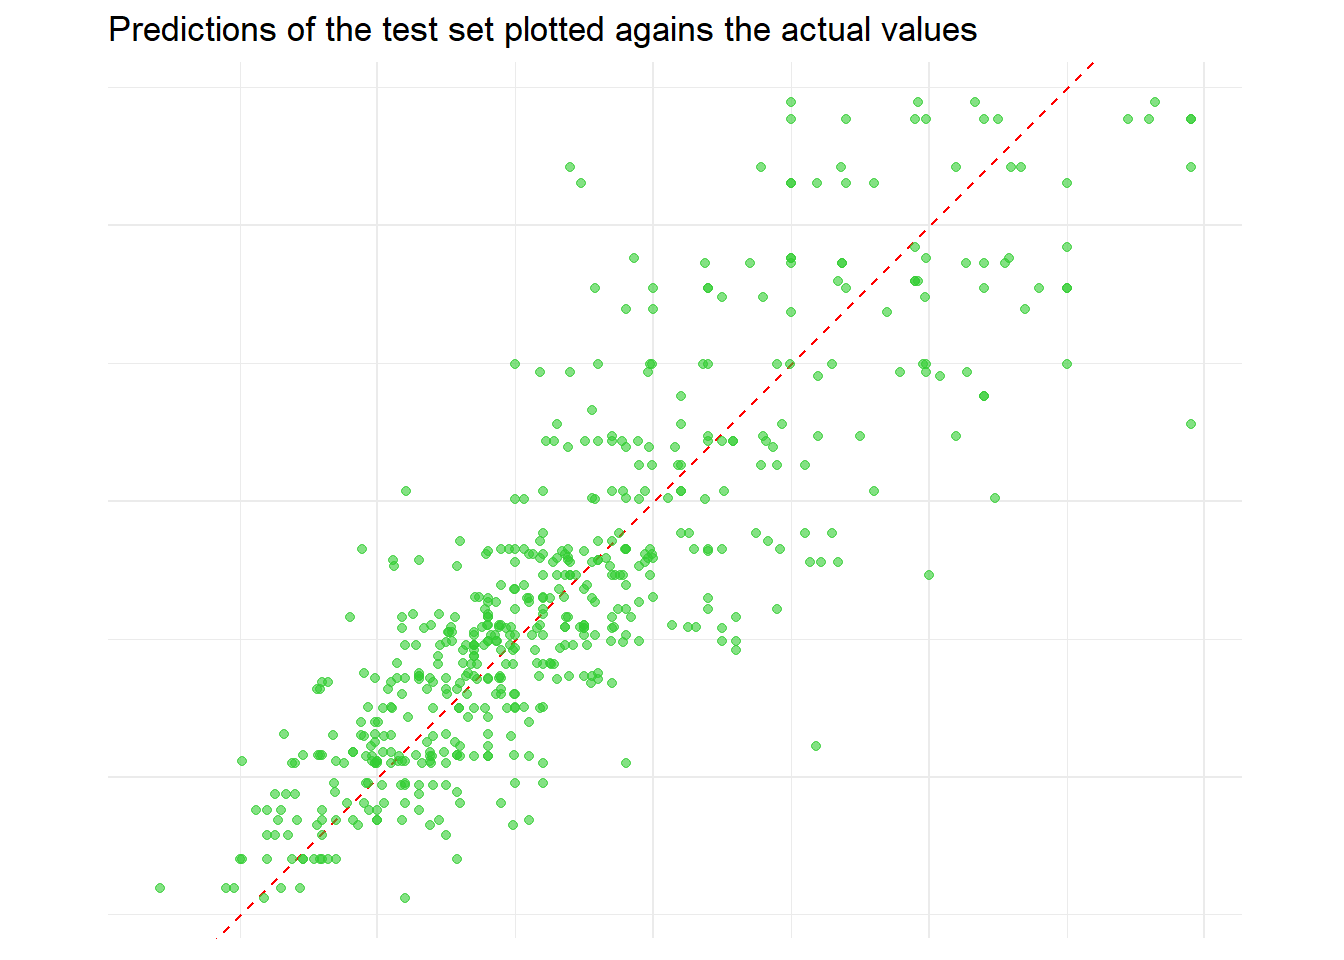
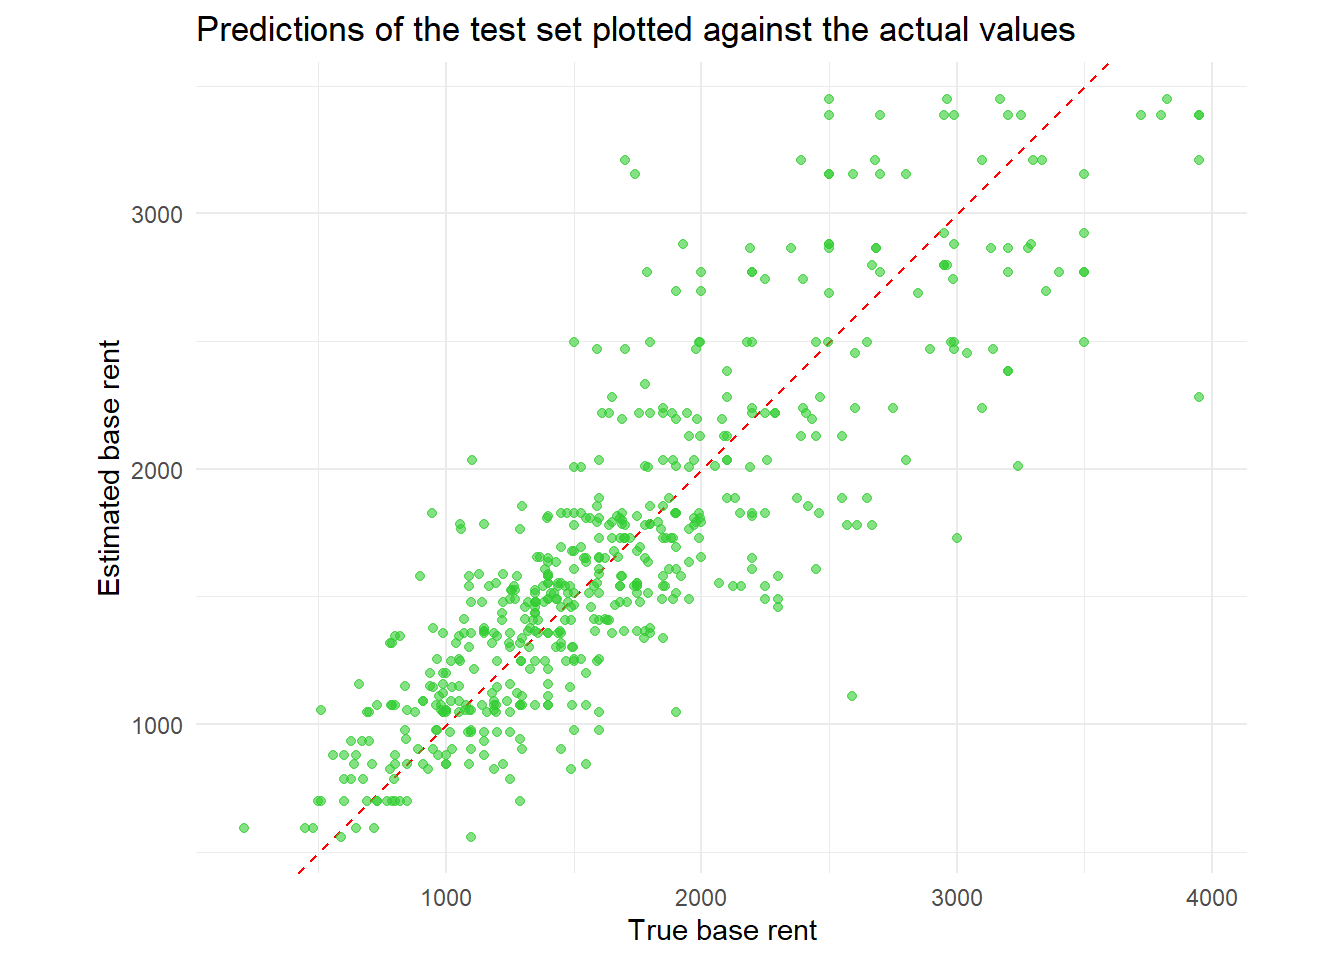
Update Solution Ex04

diff --git a/ML/Exercise04/Exercise_04_Solution.html b/ML/Exercise04/Exercise_04_Solution.html
@@ -718,6 +718,7 @@ Solution
 </div>
 <p>In order to do so, you have to proceed as follows:</p>
 <ol type="1">
+<li>Derive the order statistics of <span class="math inline">\(\{x_1,...,x_n\}\)</span></li>
 <li>Derive the set <span class="math inline">\(S := \left\{\frac{1}{2}(x_{(r)}+x_{(r+1)}):r=1,...,n-1\right\}\)</span> of all potential splitting points.</li>
 <li>For each potential splitting point, derive the regions <span class="math inline">\(R_1\)</span> and <span class="math inline">\(R_2\)</span> and calculate the estimate <span class="math inline">\(\hat y_1\)</span> and <span class="math inline">\(\hat y_2\)</span> for the respective regions.</li>
 <li>Calculate the loss <span class="math inline">\(\mathcal{L}(y,\hat y) := \sum_{i:x_i\in R_1} (y_i-\hat y)^2 + \sum_{i:x_i\in R_2}(y_i-\hat y)^2\)</span>.</li>
@@ -745,8 +746,10 @@ Solution
 <span id="cb3-9"><a href="#cb3-9" aria-hidden="true" tabindex="-1"></a>}</span></code><button title="Copy to Clipboard" class="code-copy-button"><i class="bi"></i></button></pre></div>
 </div>
 <p>Since we are interested in finding the optimal split with respect to <span class="math inline">\(x_2\)</span>, consider the sets of all possible splits <span class="math display">\[
-S := \left\{\frac{1}{2}(x_{(r)}+x_{(r+1)}):r=1,...,n-1\right\} = \{0.75,1.5,4,5\}
-\]</span> For <span class="math inline">\(r=1\)</span> we have <span class="math inline">\(s = 0.75\)</span> and <span class="math display">\[
+S := \left\{\frac{1}{2}(x_{(r)}+x_{(r+1)}):r=1,...,n-1\right\} = \{0.75,1.5,3.25,5\}.
+\]</span></p>
+<p>Here, <span class="math inline">\(\{x_{(r)},\, r = 1,...,n\} = \{0.5,1,2,4.5,5.5\}\)</span> denotes the order statistic of <span class="math inline">\(x\)</span>.</p>
+<p>For <span class="math inline">\(r=1\)</span> we have <span class="math inline">\(s = 0.75\)</span> and <span class="math display">\[
 \begin{align*}
 R_1(2,0.75) &amp;= \{x: x \leq 0.75\} = \{0.5\},\\
 R_2(2,0.75) &amp;= \{x: x &gt; 0.75\} = \{1.0,2.5,5.5,4.5\}.
@@ -794,7 +797,7 @@ R_2(2,1.5) &amp;= \{x: x &gt; 1.5\} = \{2.5,5.5,4.5\}.
 <pre><code>[1] 18.5</code></pre>
 </div>
 </div>
-<p>For <span class="math inline">\(r=3\)</span> we have <span class="math inline">\(s_2 = 4\)</span> and <span class="math display">\[
+<p>For <span class="math inline">\(r=3\)</span> we have <span class="math inline">\(s_2 = 3.25\)</span> and <span class="math display">\[
 \begin{align*}
 R_1(2,4) &amp;= \{x: x \leq 4\} = \{0.5,1.0, 2.5 \},\\
 R_2(2,4) &amp;= \{x: x &gt; 4\} = \{5.5,4.5\}.
@@ -842,7 +845,7 @@ R_2(2,5) &amp;= \{x: x &gt; 5\} = \{5.5\}.
 <pre><code>[1] 18.75</code></pre>
 </div>
 </div>
-<p>Since <span class="math inline">\(\mathcal{L}(y,\hat y)\)</span> is the lowest for <span class="math inline">\(r=3\)</span>, i.e., <span class="math inline">\(\mathcal{L}(y,\hat y) = 5.167\)</span>, <span class="math inline">\(s = 4\)</span> is the optimal splitting point with respect to <span class="math inline">\(x\)</span>.</p>
+<p>Since <span class="math inline">\(\mathcal{L}(y,\hat y)\)</span> is the lowest for <span class="math inline">\(r=3\)</span>, i.e., <span class="math inline">\(\mathcal{L}(y,\hat y) = 5.167\)</span>, <span class="math inline">\(s = 3.25\)</span> is the optimal splitting point with respect to <span class="math inline">\(x\)</span>.</p>
 </div>
 </div>
 </section>
@@ -854,7 +857,7 @@ R_2(2,5) &amp;= \{x: x &gt; 5\} = \{5.5\}.
 <span id="cb12-2"><a href="#cb12-2" aria-hidden="true" tabindex="-1"></a></span>
 <span id="cb12-3"><a href="#cb12-3" aria-hidden="true" tabindex="-1"></a>data <span class="sc">|&gt;</span> <span class="fu">ggplot</span>(<span class="fu">aes</span>(x,y))<span class="sc">+</span></span>
 <span id="cb12-4"><a href="#cb12-4" aria-hidden="true" tabindex="-1"></a>  <span class="fu">geom_point</span>(<span class="at">size =</span> <span class="dv">3</span>, <span class="at">alpha =</span> <span class="fl">0.7</span>) <span class="sc">+</span></span>
-<span id="cb12-5"><a href="#cb12-5" aria-hidden="true" tabindex="-1"></a>  <span class="fu">geom_vline</span>(<span class="at">xintercept =</span> <span class="dv">4</span>, <span class="at">linetype =</span> <span class="st">"dashed"</span>, <span class="at">color =</span> <span class="st">"red"</span>) <span class="sc">+</span></span>
+<span id="cb12-5"><a href="#cb12-5" aria-hidden="true" tabindex="-1"></a>  <span class="fu">geom_vline</span>(<span class="at">xintercept =</span> <span class="fl">3.25</span>, <span class="at">linetype =</span> <span class="st">"dashed"</span>, <span class="at">color =</span> <span class="st">"red"</span>) <span class="sc">+</span></span>
 <span id="cb12-6"><a href="#cb12-6" aria-hidden="true" tabindex="-1"></a>  <span class="fu">theme_minimal</span>()<span class="sc">+</span></span>
 <span id="cb12-7"><a href="#cb12-7" aria-hidden="true" tabindex="-1"></a>  <span class="fu">theme</span>(</span>
 <span id="cb12-8"><a href="#cb12-8" aria-hidden="true" tabindex="-1"></a>    <span class="at">plot.title =</span> <span class="fu">element_markdown</span>()</span>
@@ -1158,7 +1161,7 @@ Solution
 <p>Points that are closely scattered around this line have been well predicted, whereas points further away from this line indicate that the model performed badly.</p>
 <p>The goal of this exercise is for you to rebuild the plot that is depicted below.</p>
 <div class="cell">
-<div class="sourceCode cell-code" id="cb31"><pre class="sourceCode r code-with-copy"><code class="sourceCode r"><span id="cb31-1"><a href="#cb31-1" aria-hidden="true" tabindex="-1"></a>title_text <span class="ot">&lt;-</span> <span class="st">"Predictions of the test set plotted agains the actual values"</span></span>
+<div class="sourceCode cell-code" id="cb31"><pre class="sourceCode r code-with-copy"><code class="sourceCode r"><span id="cb31-1"><a href="#cb31-1" aria-hidden="true" tabindex="-1"></a>title_text <span class="ot">&lt;-</span> <span class="st">"Predictions of the test set plotted against the actual values"</span></span>
 <span id="cb31-2"><a href="#cb31-2" aria-hidden="true" tabindex="-1"></a>last_rt_fit <span class="sc">%&gt;%</span></span>
 <span id="cb31-3"><a href="#cb31-3" aria-hidden="true" tabindex="-1"></a>  <span class="fu">collect_predictions</span>() <span class="sc">%&gt;%</span></span>
 <span id="cb31-4"><a href="#cb31-4" aria-hidden="true" tabindex="-1"></a>  <span class="fu">ggplot</span>(<span class="fu">aes</span>(baseRent, .pred)) <span class="sc">+</span></span>
